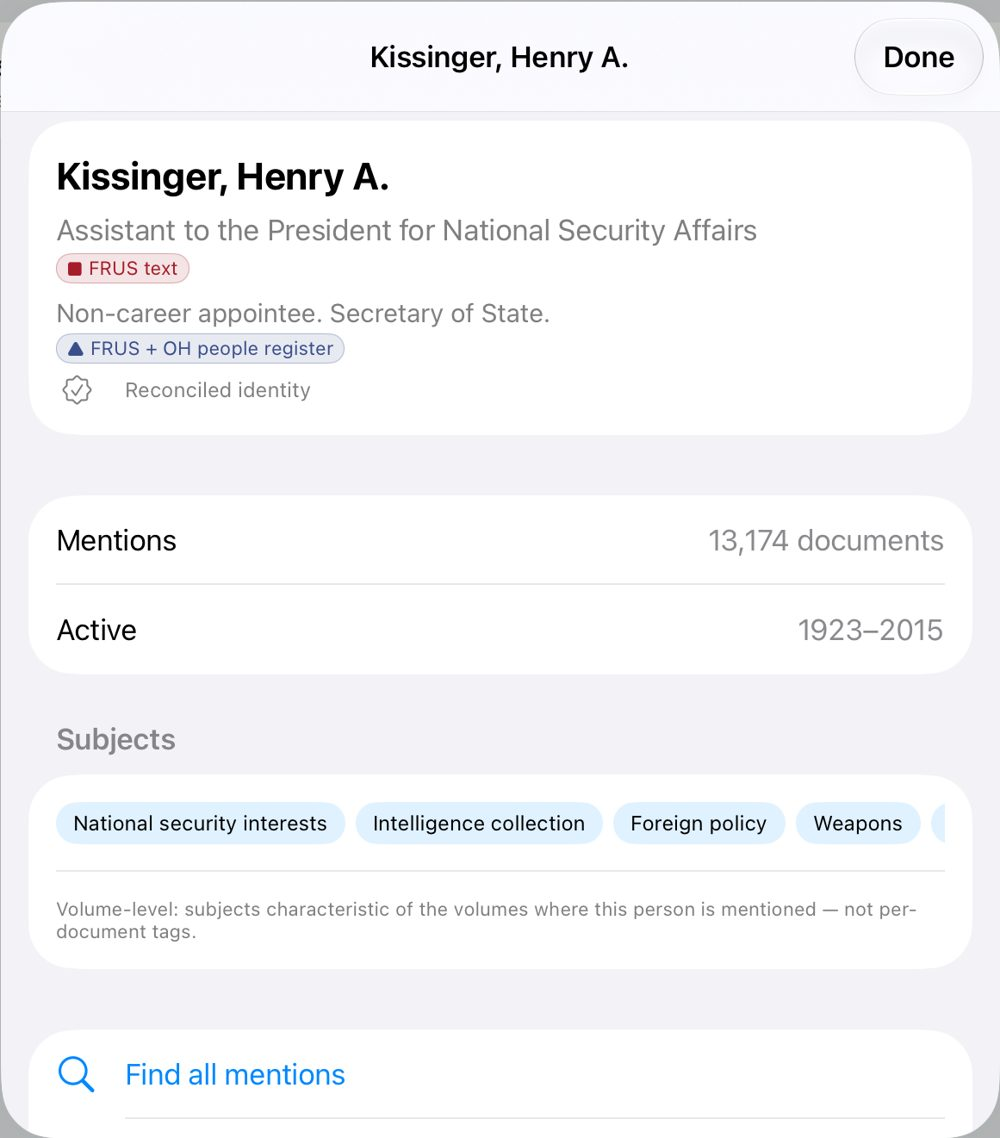
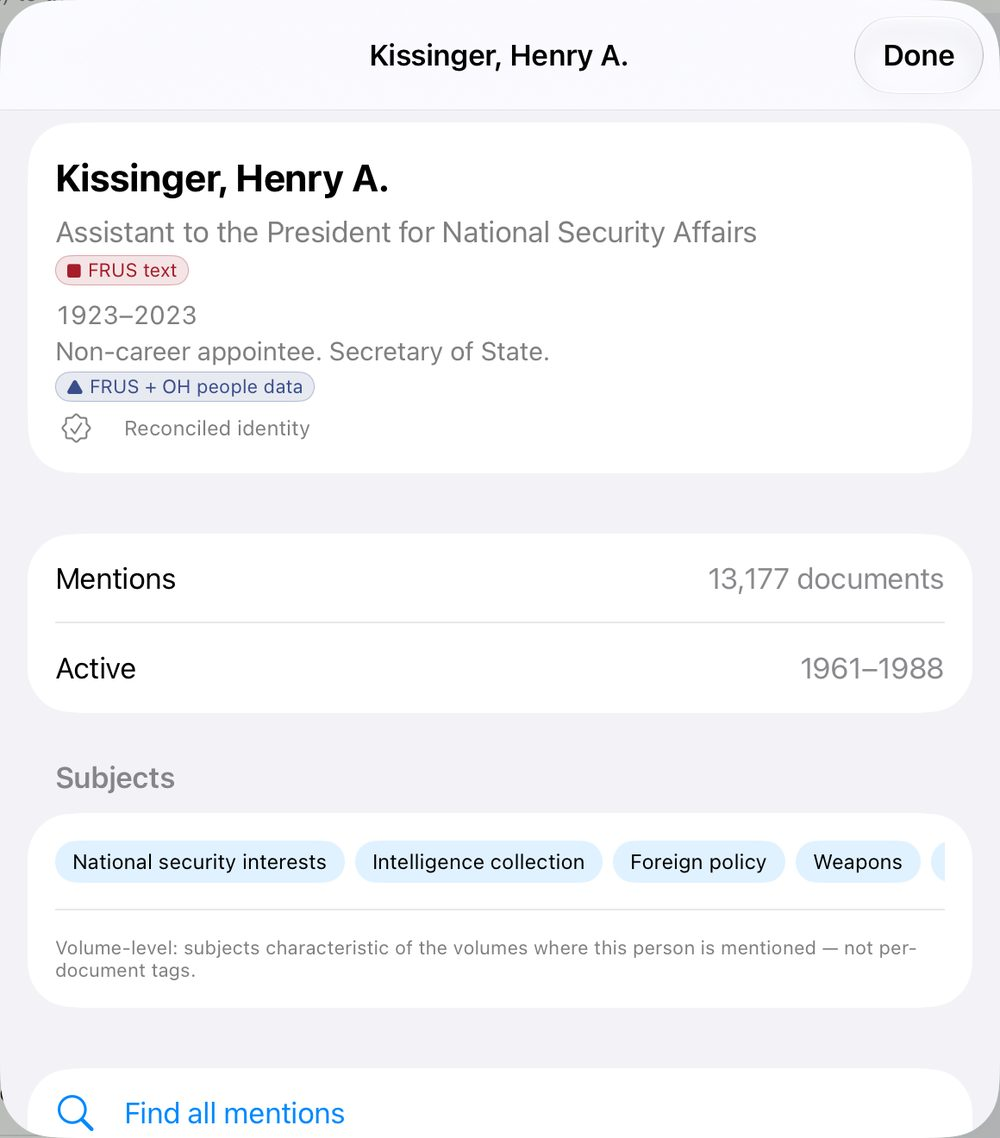
The iPad's two People frames and the tour's People sheet retaken with the people source's new label
Kissinger's sheet now reads "FRUS + OH people data" where it read "FRUS + OH
people register" (#1849). Both frames match R4's by pixel except the chip, the
erased status bar's charging glyph and, under the records frame's blurred bar,
the row that scrolls beneath it (View on Wikidata since rollup v14).

diff --git a/Planning/website-drafts/tour/tour.html b/Planning/website-drafts/tour/tour.html
@@ -553,10 +553,10 @@ body[data-state="soon"] [data-show="launch"], body[data-state="launch"] [data-sh
           </div>
         </div>
         <figure class="narrow">
-          <button class="zoom" type="button" aria-label="Enlarge the People entry"><img src="img/people.jpg" width="1000" height="1138" alt="The People entry for Kissinger, Henry A. on iPad: his role labeled FRUS text, his post labeled FRUS + OH people register, a reconciled-identity mark, 13,174 documents and Find all mentions"></button>
-          <figcaption><span class="sn">Source</span>iPad, build 48 (simulator). The entry for Kissinger, Henry A. Its two labels say where each line came from.</figcaption>
+          <button class="zoom" type="button" aria-label="Enlarge the People entry"><img src="img/people.jpg" width="1000" height="1138" alt="The People entry for Kissinger, Henry A. on iPad: his role labeled FRUS text, his post labeled FRUS + OH people data, a reconciled-identity mark, 13,177 documents and Find all mentions"></button>
+          <figcaption><span class="sn">Source</span>iPad, 1.0 (1787) with the people source's new label (simulator). The entry for Kissinger, Henry A. Its two labels say where each line came from.</figcaption>
         </figure>
-        <p class="pnote"><b>Production note</b>New in this draft. Captured before two fixes to roles and life years (#1370, #1441), so its “Active 1923–2015” line is out of date. Re-shoot on build 51.</p>
+        <p class="pnote"><b>Production note</b>Cropped from <code>Docs/screenshots/ipad/people-detail.png</code>, retaken on 2026-11-04 after the people source's label became “FRUS + OH people data”. It replaces the build-48 capture, whose “Active 1923–2015” line predated #1370 and #1441.</p>
       </article>
     </div>
   </div>

diff --git a/Planning/website-drafts/README.md b/Planning/website-drafts/README.md
@@ -72,14 +72,15 @@ soften them is the owner's call.
 
 - **Figures.** Recount each against 1.0 (1861)'s shipped artifacts before publishing: 553 volumes;
   264,598 source notes matched to documents, in 502 volumes; 51 volumes with none; 8,637
-  cross-references between volumes; 314,616 documents on the semantic map; the 13,174 documents of
-  the People capture. Index versions 70 and 71 (A18, A18b) changed what the index stores, so the
-  cross-reference figure in particular may have moved.
-- **Screens.** The tour's captures come from builds 47 and 48, and its People sheet from before
-  #1370 and #1441. Retake each from the submitted build; R1's retakes (decision 88) and
-  `Docs/screenshots/` are the sources. Steps 18 to 20 have no capture, and the meaning-search, map and
-  Chronology screens predate EmbeddingGemma 2, build 51's map layout and #1422. Each step's
-  production note names what it needs.
+  cross-references between volumes; 314,616 documents on the semantic map; the 13,177 documents of
+  the People capture (retaken 2026-11-04). Index versions 70 and 71 (A18, A18b) changed what the
+  index stores, so the cross-reference figure in particular may have moved.
+- **Screens.** The tour's captures come from builds 47 and 48, except its People sheet, cropped from
+  `Docs/screenshots/ipad/people-detail` as retaken on 2026-11-04 for the people source's label.
+  Retake each from the submitted build; R1's retakes (decision 88) and `Docs/screenshots/` are the
+  sources. Steps 18 to 20 have no capture, and the meaning-search, map and Chronology screens
+  predate EmbeddingGemma 2, build 51's map layout and #1422. Each step's production note names what
+  it needs.
 - **The kit's rules.** Read each page against the launch kit's §6 checklist.
 - **The copies of record.** Fold the Support and Privacy drafts in, run
   `python3 Scripts/build_website_pages.py`, check that `--check` passes, and add the TEI row.
